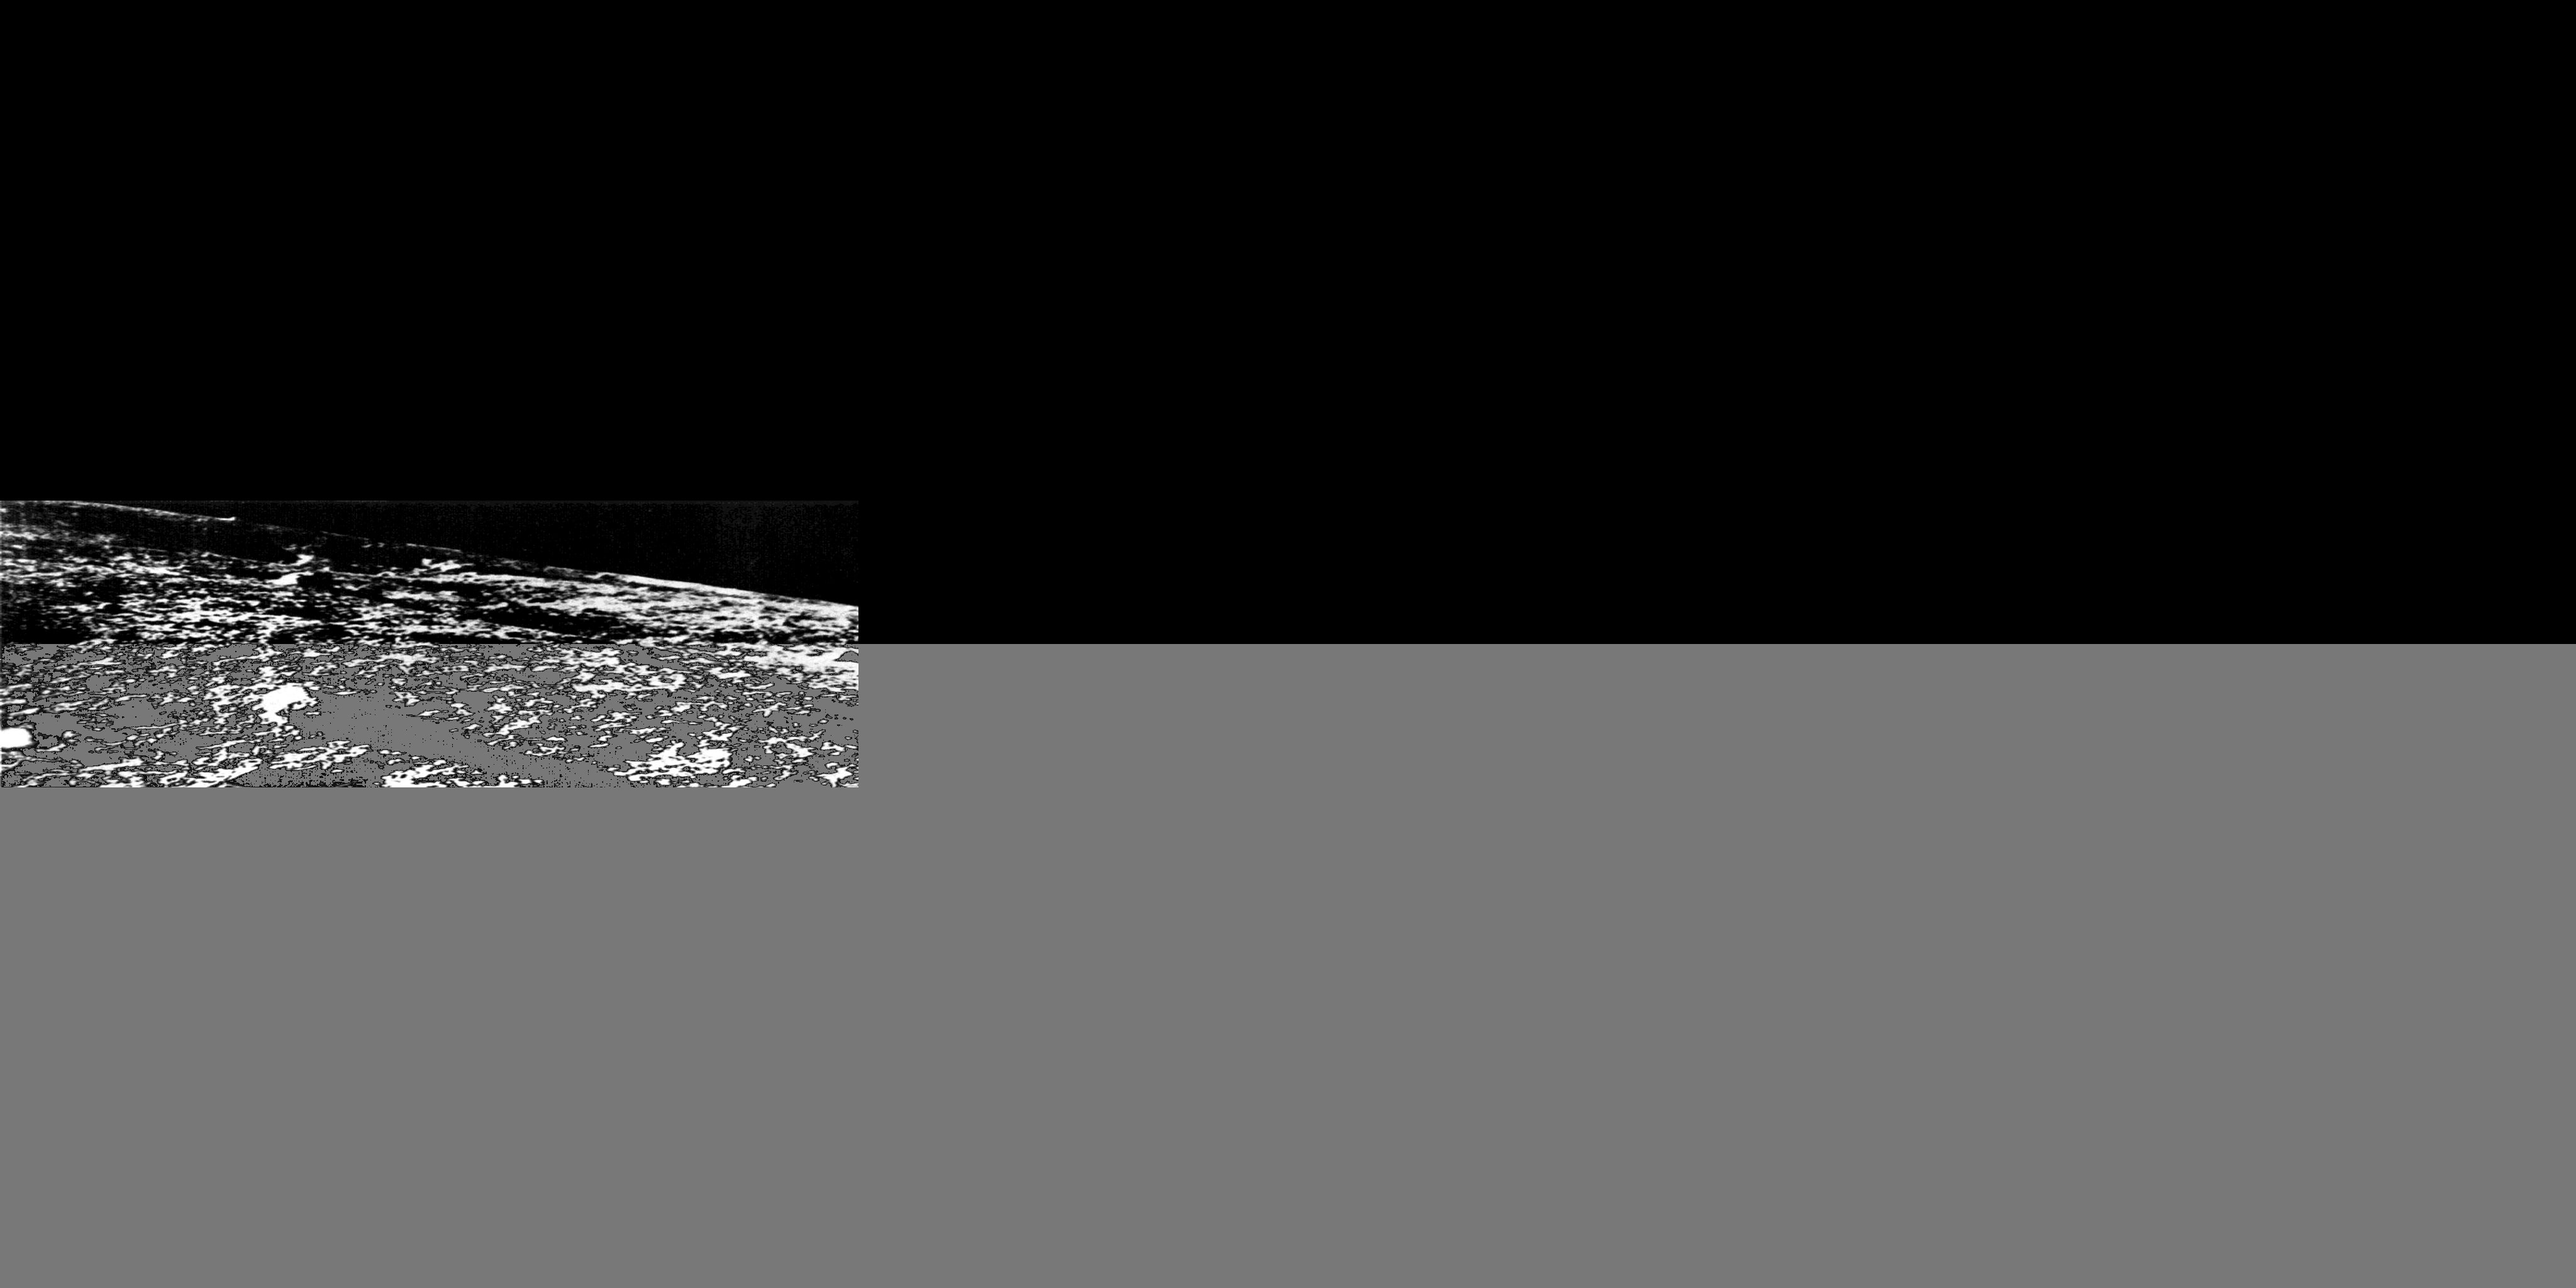
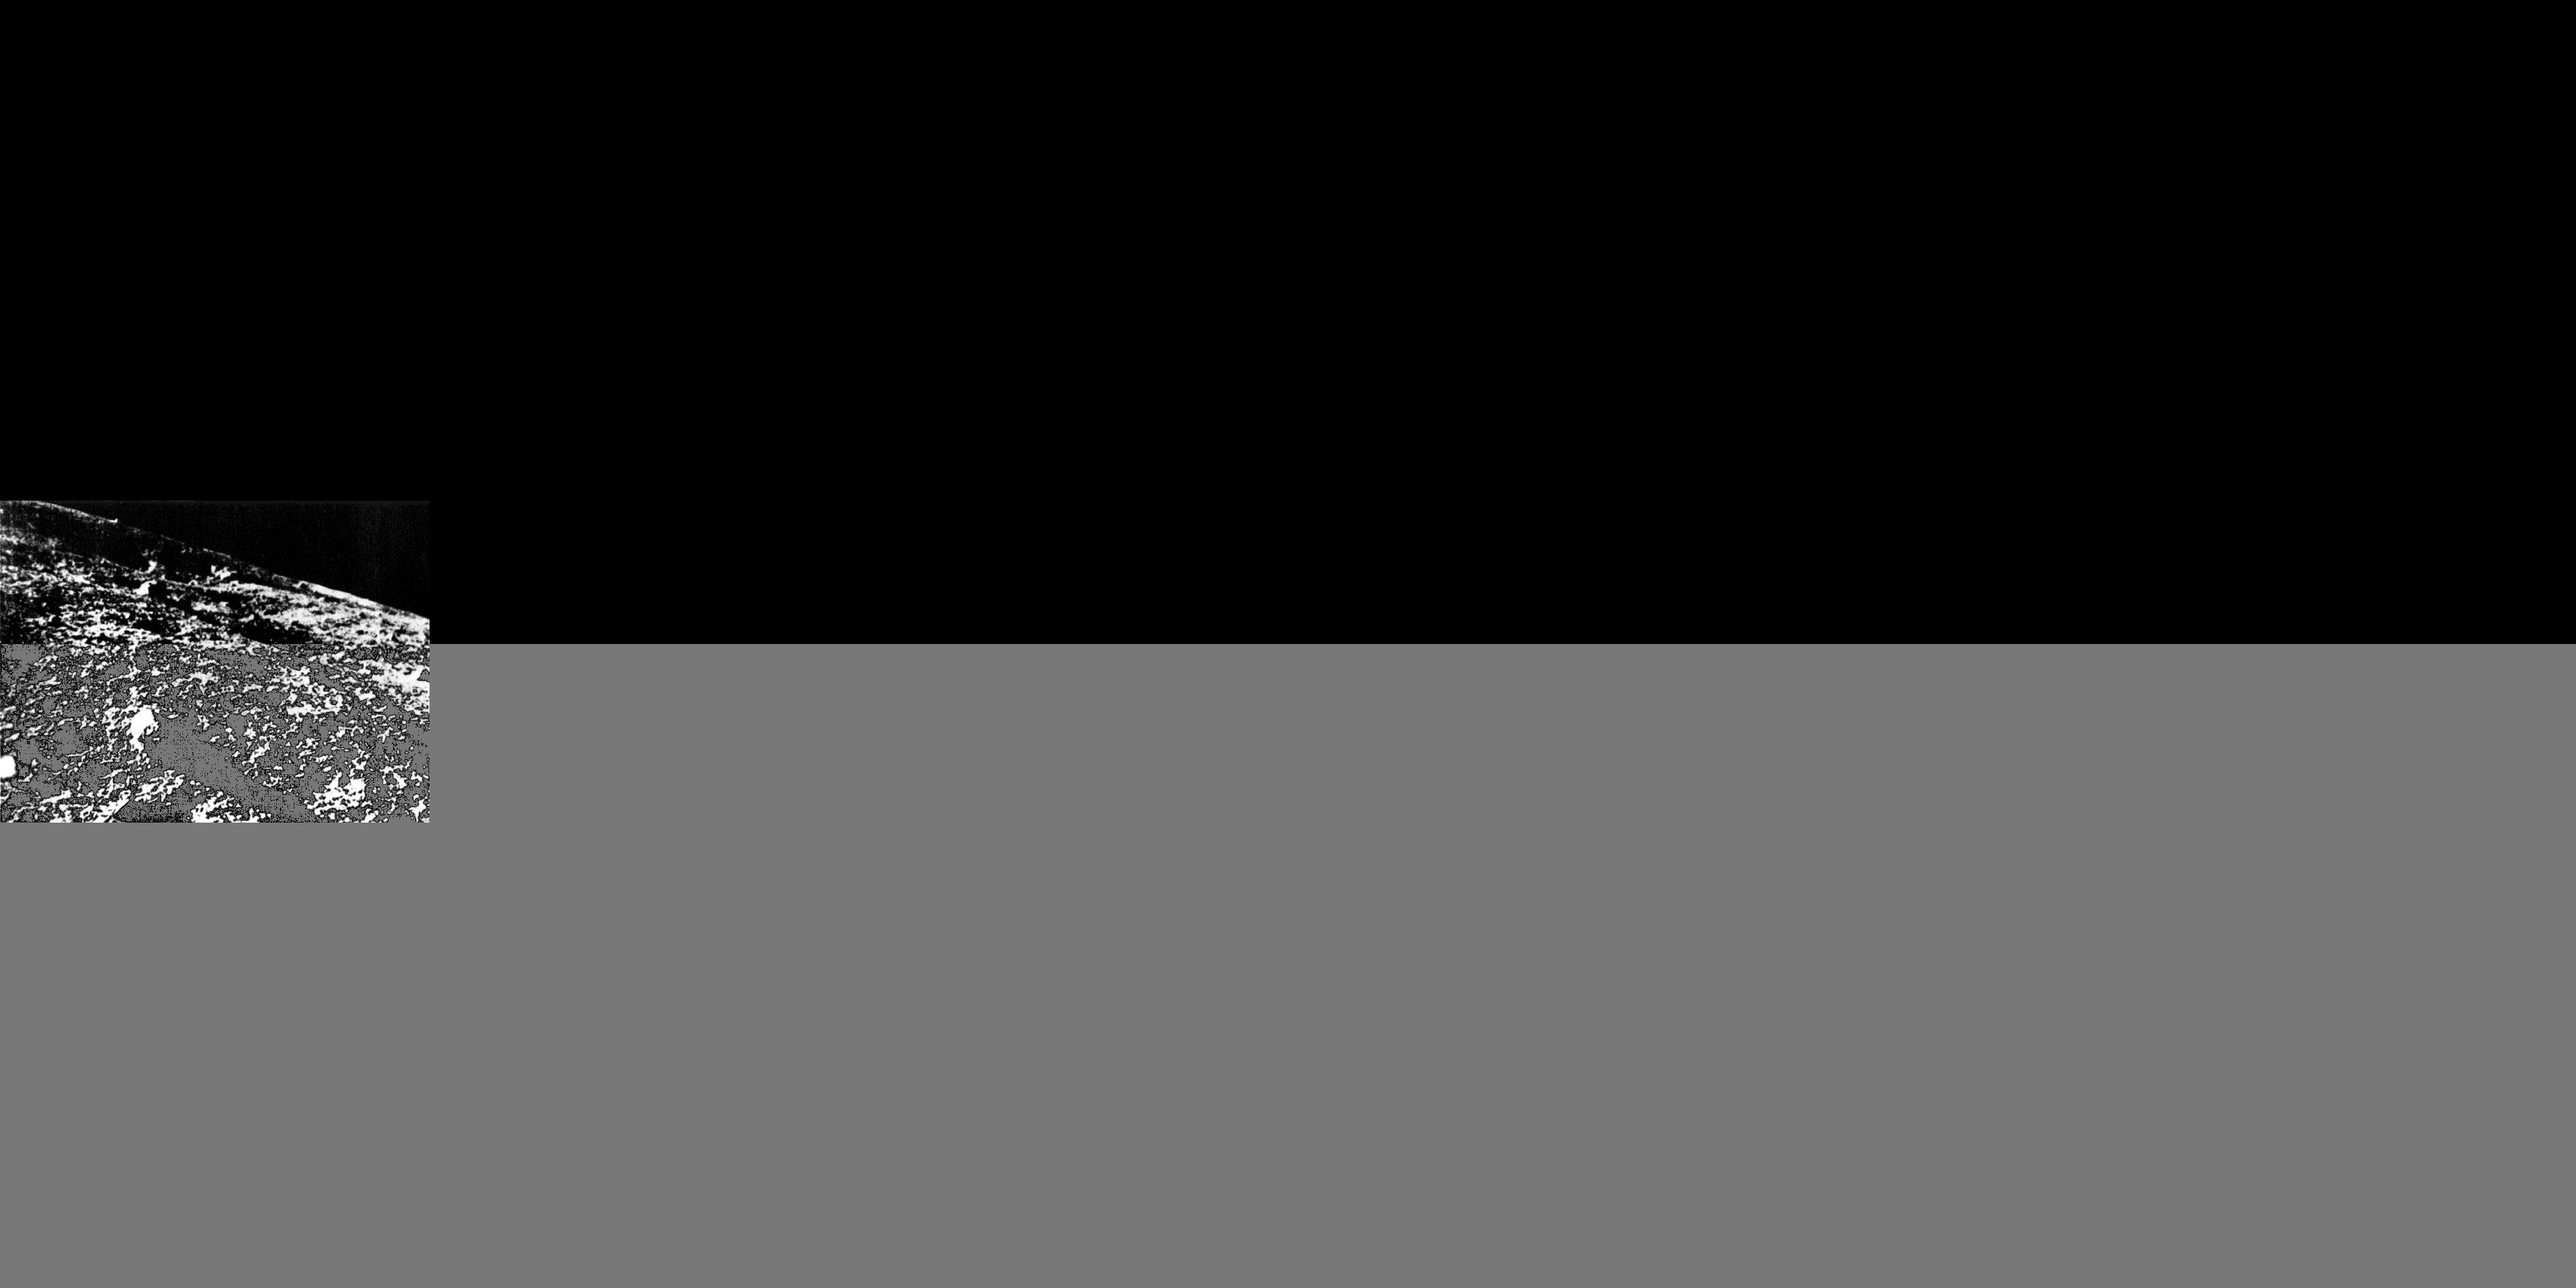
fix(moon): panorama UX feedback — button parity + LM crop + luna9 framing + 404 fix
Four user-reported issues from /moon Tier 3 testing:

1. Stand-at-site button looked different from /mars + no exit
   affordance once panorama opened. Ported /mars's pattern: same
   button slot in the detail panel toggles between enter ("◐ Stand
   at site") and exit ("✕ Exit panorama view") states. Removed the
   floating .panorama-exit button at top-center of the panorama
   overlay — exit lives in the detail panel where the entry was.
   CSS now matches /mars (transparent dark-glass, monospace,
   accent-coloured glyph).

2. Apollo 11 LM Eagle was cropping at the top of the skybox.
   Source aspect is 12.7:1 — bumped srcElevationTopDeg 14°→26°
   so the LM ascent stage + flag fit. Bottom stays 14° (Armstrong's
   shadow lives at the lower edge — keep tight).

3. Luna 9 panorama looked rough. Confirmed: the 789×550 Wikimedia
   file IS the highest-quality version of the 1966 historic
   radiofax transmission. Visible noise + low resolution are
   intrinsic to the source, not the rendering. Narrowed azimuth
   60° (was 120°) so the source pixels stay larger in the skybox.
   Caption now makes clear "this IS the best surviving copy".

4. Server log spamming 404 for /images/hotspots/moon/luna9/tier2-lroc.jpg.
   Removed hotspot_tier2_source from luna9 sidecar entry — LROC team
   hasn't located the 1966 site, so there's no Tier 2 patch.
   Tier 3 (panorama) is independent and stays. Site renders Tier 0
   + Tier 1 model + Tier 3 panorama only.
[…]

Changed region(s): [[0.0, 0.375, 0.3438, 0.6562]]

diff --git a/src/routes/moon/+page.svelte b/src/routes/moon/+page.svelte
@@ -1818,10 +1818,8 @@ sample      ${debugInfo.projectedPxSample}`}
     >
       <span class="sr-only">
         You are standing at the landing site. The lander is in front of you. Drag to look around.
+        Press the Exit panorama view button in the detail panel, or press Esc, to return to orbit.
       </span>
-      <button type="button" class="panorama-exit" onclick={exitPanorama}>
-        ↑ Return to orbit
-      </button>
     </div>
   {/if}
 
@@ -1869,19 +1867,31 @@ sample      ${debugInfo.projectedPxSample}`}
             {/if}
           </p>
         {/if}
-        {#if selected.hotspot_tier3_panorama && !panoramaActive}
-          <button
-            type="button"
-            class="stand-at-site"
-            data-testid="stand-at-site"
-            onclick={() =>
-              enterPanorama(`${base}${selected!.hotspot_tier3_panorama!}`, selected!.id)}
-            title={isSaveDataActive()
-              ? 'Tap to load panorama (~8 MB) — saveData is on'
-              : 'Stand at this landing site — wrap-around ground view'}
-          >
-            🌐 Stand at site{isSaveDataActive() ? ' (tap to load)' : ''}
-          </button>
+        {#if selected.hotspot_tier3_panorama}
+          {#if panoramaActive}
+            <button
+              type="button"
+              class="stand-at-site stand-at-site--exit"
+              data-testid="exit-panorama"
+              onclick={exitPanorama}
+              title="Exit panorama view (Esc)"
+            >
+              Exit panorama view
+            </button>
+          {:else}
+            <button
+              type="button"
+              class="stand-at-site"
+              data-testid="stand-at-site"
+              onclick={() =>
+                enterPanorama(`${base}${selected!.hotspot_tier3_panorama!}`, selected!.id)}
+              title={isSaveDataActive()
+                ? 'Tap to load panorama (~8 MB) — saveData is on'
+                : 'Stand at this landing site — wrap-around ground view'}
+            >
+              Stand at site{isSaveDataActive() ? ' (tap to load)' : ''}
+            </button>
+          {/if}
         {/if}
       </div>
 
@@ -2187,26 +2197,49 @@ sample      ${debugInfo.projectedPxSample}`}
     gap: 6px;
     pointer-events: auto;
   }
+  /* Port of /mars's stand-at-site button — same slot in the detail
+     panel handles both enter + exit states. Glyph + transparent
+     dark-glass styling match Mars; enter glyph "◐" (planet at
+     night), exit glyph "✕". */
   .stand-at-site {
     display: inline-flex;
     align-items: center;
-    gap: 6px;
-    padding: 6px 12px;
-    margin-top: 8px;
-    background: var(--accent, #4ecdc4);
-    color: #04040c;
-    border: none;
-    border-radius: 4px;
+    justify-content: center;
+    gap: 8px;
+    width: 100%;
+    padding: 10px 14px;
+    margin-top: 12px;
+    background: rgba(255, 255, 255, 0.04);
+    color: rgba(255, 255, 255, 0.92);
+    border: 1px solid rgba(255, 255, 255, 0.18);
+    border-radius: 2px;
     font-family: 'Space Mono', monospace;
-    font-size: 12px;
-    letter-spacing: 0.5px;
+    font-size: 11px;
+    font-weight: 500;
+    letter-spacing: 1.4px;
+    text-transform: uppercase;
     cursor: pointer;
+    transition:
+      background 0.15s ease,
+      border-color 0.15s ease,
+      color 0.15s ease;
+  }
+  .stand-at-site::before {
+    content: '◐';
+    font-size: 13px;
+    line-height: 1;
+    color: var(--accent, #4ecdc4);
+  }
+  .stand-at-site--exit::before {
+    content: '✕';
+    color: var(--accent, #4ecdc4);
   }
   .stand-at-site:hover,
   .stand-at-site:focus-visible {
-    filter: brightness(1.1);
-    outline: 2px solid currentColor;
-    outline-offset: 2px;
+    background: rgba(255, 255, 255, 0.08);
+    border-color: var(--accent, #4ecdc4);
+    color: #fff;
+    outline: none;
   }
   .panorama-overlay {
     position: fixed;

diff --git a/scripts/hotspots/fetch-moon-panoramas.ts b/scripts/hotspots/fetch-moon-panoramas.ts
@@ -116,8 +116,11 @@ const PANORAMAS: MoonPanoramaConfig[] = [
     sourceLabel: 'JSC2007-E-045375',
     attribution: 'NASA / JSC / Apollo Lunar Surface Journal (mosaic by JSC, 2007)',
     license: 'PD-NASA',
+    // 32454×2554 → 12.7:1 aspect. LM Eagle is tall in the source —
+    // bumped elevationTop 14→26 so the LM ascent stage + flag don't
+    // crop at the upper edge.
     srcAzimuthDeg: 360,
-    srcElevationTopDeg: 14,
+    srcElevationTopDeg: 26,
     srcElevationBottomDeg: 14,
     caption:
       'Tranquillity Base panoramic mosaic — Apollo 11 LM Eagle, deployed flag, EASEP instrument, ' +
@@ -165,16 +168,23 @@ const PANORAMAS: MoonPanoramaConfig[] = [
     sourceLabel: 'Luna 9 first surface photo (1966)',
     attribution:
       'Soviet Academy of Sciences · public domain (Russian copyright law: no creative agency)',
-    license: 'PD-NASA', // treating as PD-equivalent; license_rationale captures the Soviet provenance
-    // 789×550 — historic low-res partial pan. Treat as ~120° × ~40°.
-    srcAzimuthDeg: 120,
+    license: 'PD-NASA', // PD-equivalent; license_rationale captures the Soviet provenance
+    // 789×550 — the highest-quality version of the historic 1966
+    // radiofax transmission on Wikimedia. There IS no high-res
+    // version; the image is intrinsically low-res because of how
+    // it was originally transmitted. Narrow azimuth (60°) keeps
+    // the source pixels visually larger in the skybox rather than
+    // stretching them across a wider sweep.
+    srcAzimuthDeg: 60,
     srcElevationTopDeg: 20,
-    srcElevationBottomDeg: 20,
+    srcElevationBottomDeg: 25,
     caption:
       'Luna 9 — the first photograph from the lunar surface, transmitted Feb 4 1966 ' +
-      'from Oceanus Procellarum. Soviet Academy of Sciences, intercepted + decoded by ' +
-      'Jodrell Bank Observatory + Daily Express. Public domain (Russian copyright).',
-    recolourBlackThreshold: 30, // gentler — Luna 9 transmission noise is naturally dark
+      'from Oceanus Procellarum via Soviet radiofax. Intercepted + decoded by Jodrell Bank ' +
+      'Observatory + Daily Express. The visible noise + low resolution are intrinsic to ' +
+      'the 1966 transmission tech, not the rendering — this IS the best surviving copy of ' +
+      'the historic first-ever photograph from another world. Soviet Academy of Sciences, PD.',
+    recolourBlackThreshold: 20, // gentle — preserve historic transmission texture
   },
   {
     siteId: 'apollo17',
